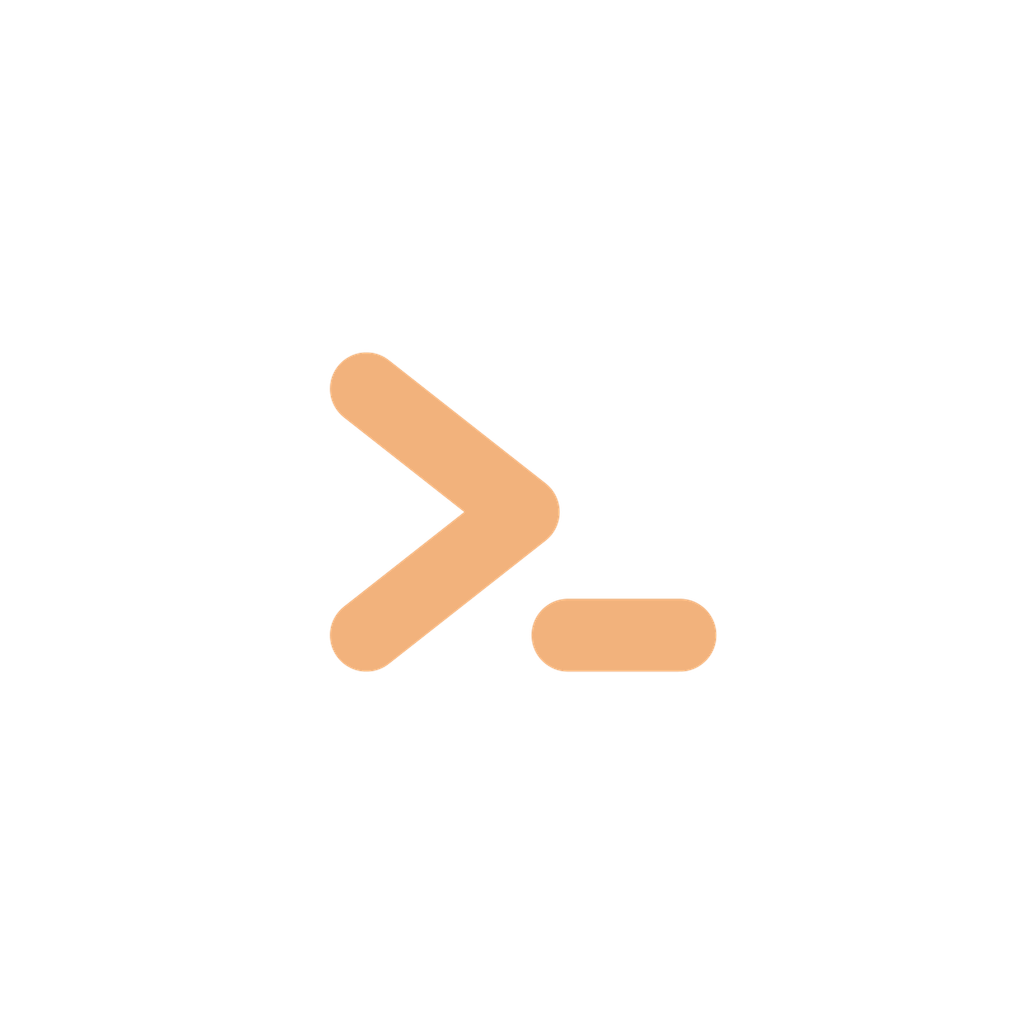
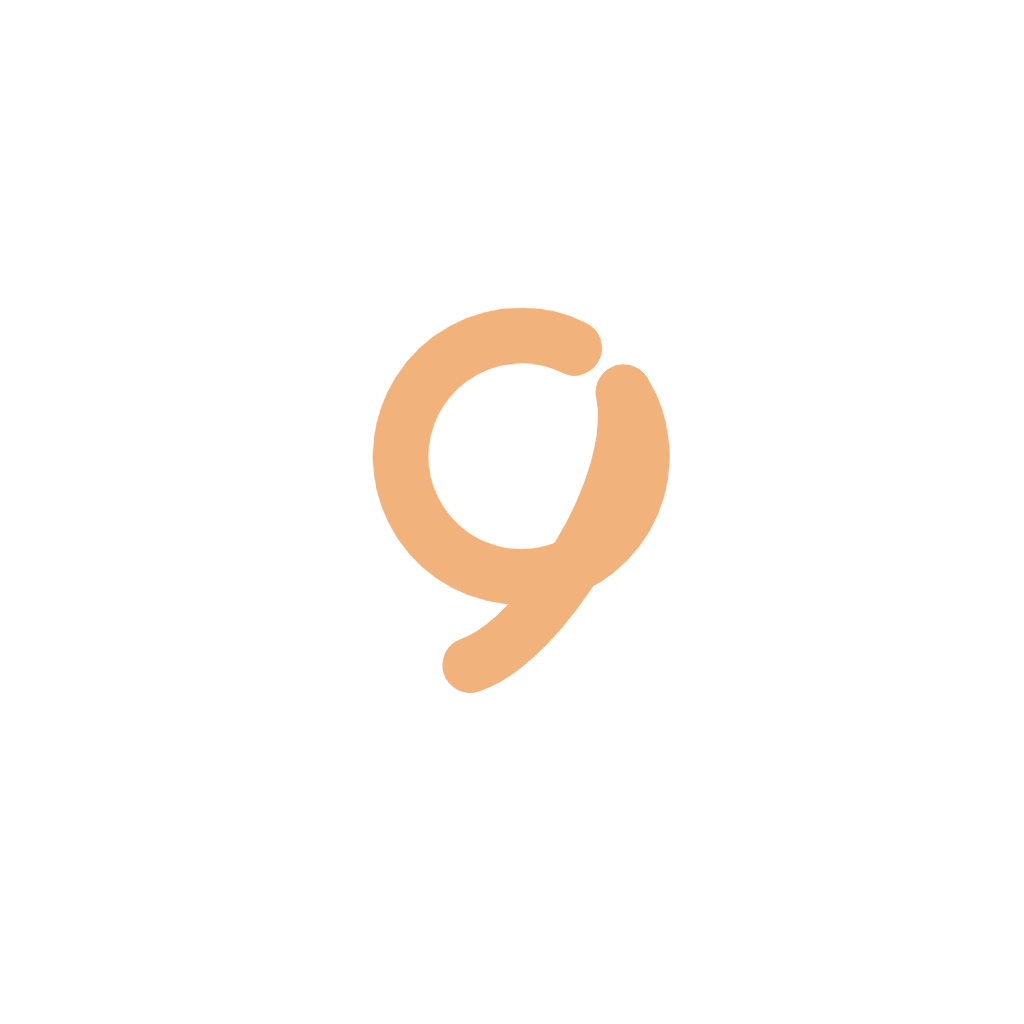
Rebrand: replace terminal-prompt mark with the dial-9 (web + mobile)
The terminal `>_` mark was overused across dev tooling and carried none of
cert900's equity. New mark: a gauge arc that resolves into the numeral 9 =
the first digit of 900, the perfect CompTIA score. Distinctive, ownable,
legible down to 16px. Palette unchanged (slate #151b29 / amber #f2b27c);
scope was mark + wordmark only.

Web:
- public/favicon.svg + src/components/Wordmark.tsx: dial-9 SVG; wordmark
  lockup now "cert" (Geist) + "900" (Geist Mono, amber tabular)
- index.css: hover repurposed from cursor-blink to a stroke-draw of the arc
  (.wm-arc / wm-draw), reduced-motion shows the full mark
- regenerated public icons (192/512/maskable/apple-touch) + og.png (mark in
  the brand line and as the watermark) via qa/brand-render.js

Mobile:
- mobile/src/mark.tsx: DialMark (react-native-svg), shown in the Home header
- regenerated mobile/assets/* (icon, adaptive foreground, splash, favicon,
  Play feature graphic "Practice CompTIA. Hit 900.") via qa/mobile-icons.js
- refreshed store screenshots to show the rebranded header
- NOTE: the already-built Android .aab still has the old icon; rebuild before
  the store push resumes

QA: web build green; drive-v3 20/20; launch-qa 30/30 (favicon/og/icons still
served, brand renders both themes); mobile typecheck green; zero console
errors. Path data kept identical across all five mark sites.

Changed region(s): [[0.3125, 0.2812, 0.7188, 0.6875]]

diff --git a/src/components/Wordmark.tsx b/src/components/Wordmark.tsx
@@ -1,19 +1,40 @@
 import { cn } from "@/lib/utils"
 
 /**
- * Brand mark (terminal prompt tile, same art as the favicon) + "cert900"
- * wordmark. Put `.brand-link` on the clickable parent to get the
- * blinking-cursor hover; text color follows the parent (hover:text-brand).
+ * Brand mark (dial-9: a gauge arc that resolves into the "9" of 900, the
+ * perfect CompTIA score) + "cert900" wordmark ("900" set in Geist Mono).
+ * Put `.brand-link` on the clickable parent to get the arc-draw hover; text
+ * color follows the parent (hover:text-brand). Reduced-motion draws instantly.
  */
 export function Wordmark({ className, iconClassName }: { className?: string; iconClassName?: string }) {
   return (
-    <span className={cn("inline-flex items-center gap-2 font-mono font-semibold tracking-wide", className)}>
+    <span className={cn("inline-flex items-center gap-2 font-semibold tracking-tight", className)}>
       <svg viewBox="0 0 64 64" className={cn("size-5 shrink-0", iconClassName)} aria-hidden>
         <rect width="64" height="64" rx="14" fill="#151b29" stroke="var(--border)" strokeWidth="3" />
-        <path d="M19 21 L33 32 L19 43" fill="none" stroke="#f2b27c" strokeWidth="6.5" strokeLinecap="round" strokeLinejoin="round" />
-        <path className="wm-cursor" d="M37 43 H47" fill="none" stroke="#f2b27c" strokeWidth="6.5" strokeLinecap="round" />
+        <path
+          className="wm-arc"
+          pathLength={100}
+          strokeDasharray={100}
+          d="M 44.02 19.11 A 13 13 0 1 1 38.7 14.32"
+          fill="none"
+          stroke="#f2b27c"
+          strokeWidth="6"
+          strokeLinecap="round"
+        />
+        <path
+          className="wm-arc"
+          pathLength={100}
+          strokeDasharray={100}
+          d="M 44.02 19.11 C 46.02 29.11, 35 46, 27.5 48.5"
+          fill="none"
+          stroke="#f2b27c"
+          strokeWidth="6"
+          strokeLinecap="round"
+        />
       </svg>
-      cert900
+      <span>
+        cert<span className="font-mono tabular-nums text-brand">900</span>
+      </span>
     </span>
   )
 }

diff --git a/mobile/src/screens/HomeScreen.tsx b/mobile/src/screens/HomeScreen.tsx
@@ -5,6 +5,7 @@ import { authClient, signOut, useSession } from "../auth"
 import { useProgress, type SyncStatus } from "../progress-store"
 import { colors, radius, space } from "../theme"
 import { AppButton, Pill } from "../ui"
+import { DialMark } from "../mark"
 
 const SYNC_LABEL: Record<SyncStatus, { text: string; tone: "muted" | "success" | "danger" | "primary" }> = {
   local: { text: "On this device", tone: "muted" },
@@ -37,9 +38,12 @@ export function HomeScreen({ onStart }: { onStart: (examId: string) => void }) {
   return (
     <ScrollView contentContainerStyle={styles.content}>
       <View style={styles.headerRow}>
-        <Text style={styles.wordmark}>
-          cert<Text style={{ color: colors.primary }}>900</Text>
-        </Text>
+        <View style={styles.brand}>
+          <DialMark size={26} />
+          <Text style={styles.wordmark}>
+            cert<Text style={{ color: colors.primary }}>900</Text>
+          </Text>
+        </View>
         <Pill text={sync.text} tone={sync.tone} />
       </View>
       <Text style={styles.tagline}>Practice CompTIA anywhere. PBQs and all.</Text>
@@ -96,6 +100,7 @@ export function HomeScreen({ onStart }: { onStart: (examId: string) => void }) {
 const styles = StyleSheet.create({
   content: { padding: space.lg, paddingBottom: space.xl, gap: space.md },
   headerRow: { flexDirection: "row", alignItems: "center", justifyContent: "space-between" },
+  brand: { flexDirection: "row", alignItems: "center", gap: space.sm },
   wordmark: { fontSize: 22, fontWeight: "800", color: colors.text, letterSpacing: -0.5 },
   tagline: { color: colors.muted, fontSize: 14, marginTop: -space.xs },
   authCard: {

diff --git a/src/index.css b/src/index.css
@@ -197,15 +197,17 @@
     to { opacity: 1; transform: scale(1); }
 }
 
-/* Brand wordmark: while hovering (or keyboard-focusing) the home link, the
-   prompt's cursor blinks like a terminal. Color shift handled by the link's
-   own hover:text-brand. Reduced-motion kills the loop via the global rule. */
-.brand-link:hover .wm-cursor,
-.brand-link:focus-visible .wm-cursor {
-    animation: wm-blink 1.1s steps(1, end) infinite;
+/* Brand wordmark: hovering (or keyboard-focusing) the home link re-draws the
+   dial-9 arc, like a score filling in. Base state is fully drawn (offset 0),
+   so reduced-motion (global rule collapses the animation) simply shows the
+   complete mark. Color shift handled by the link's own hover:text-brand. */
+.brand-link:hover .wm-arc,
+.brand-link:focus-visible .wm-arc {
+    animation: wm-draw 620ms var(--ease-out-strong);
 }
-@keyframes wm-blink {
-    50% { opacity: 0; }
+@keyframes wm-draw {
+    from { stroke-dashoffset: 100; }
+    to { stroke-dashoffset: 0; }
 }
 
 /* Exam verdict reveal (Results). Staged via transition delays. */

diff --git a/mobile/src/mark.tsx b/mobile/src/mark.tsx
@@ -1,0 +1,17 @@
+import Svg, { Rect, Path } from "react-native-svg"
+import { colors } from "./theme"
+
+/**
+ * Dial-9 brand mark: a gauge arc that resolves into the "9" of 900 (the
+ * perfect CompTIA score). Same path data as the web favicon / Wordmark and
+ * the icon generator — keep all in sync.
+ */
+export function DialMark({ size = 26 }: { size?: number }) {
+  return (
+    <Svg width={size} height={size} viewBox="0 0 64 64">
+      <Rect width={64} height={64} rx={14} fill={colors.card} stroke={colors.border} strokeWidth={3} />
+      <Path d="M 44.02 19.11 A 13 13 0 1 1 38.7 14.32" fill="none" stroke={colors.primary} strokeWidth={6} strokeLinecap="round" />
+      <Path d="M 44.02 19.11 C 46.02 29.11, 35 46, 27.5 48.5" fill="none" stroke={colors.primary} strokeWidth={6} strokeLinecap="round" />
+    </Svg>
+  )
+}

diff --git a/PROJECT-GUIDE.md b/PROJECT-GUIDE.md
@@ -49,7 +49,12 @@ mode). D1 (`comptia-trainer`) stores auth + synced progress + reports.
   `src/lib/site.ts` holds SITE_URL/CONTACT_EMAIL/DONATE_URL/ADS.
 - `public/` — favicon.svg, PWA manifest + icons, og.png, robots.txt, sitemap.xml,
   IndexNow key file. Icons/og are RENDERED artifacts: regenerate with scratchpad
-  `qa/brand-render.js` (terminal-prompt mark, slate #151b29 + amber #f2b27c).
+  `qa/brand-render.js` (dial-9 mark, slate #151b29 + amber #f2b27c). Brand mark
+  = the "dial-9": a gauge arc that resolves into the 9 of 900 (the perfect
+  CompTIA score). Same path data lives in `public/favicon.svg`,
+  `src/components/Wordmark.tsx`, and the render scripts — keep all in sync.
+  Mobile icons: scratchpad `qa/mobile-icons.js` -> `mobile/assets/*.png`;
+  RN mark in `mobile/src/mark.tsx`. Wordmark = "cert900" with "900" in Geist Mono.
 - SEO guides: `src/screens/Guides.tsx` (3 pages: /comptia-a-plus-practice-test,
   /network-plus-practice-test, /comptia-pbq-practice; hook-free so they SSR).
   `tools/prerender.tsx` (runs in `npm run build` via tsx) writes static
